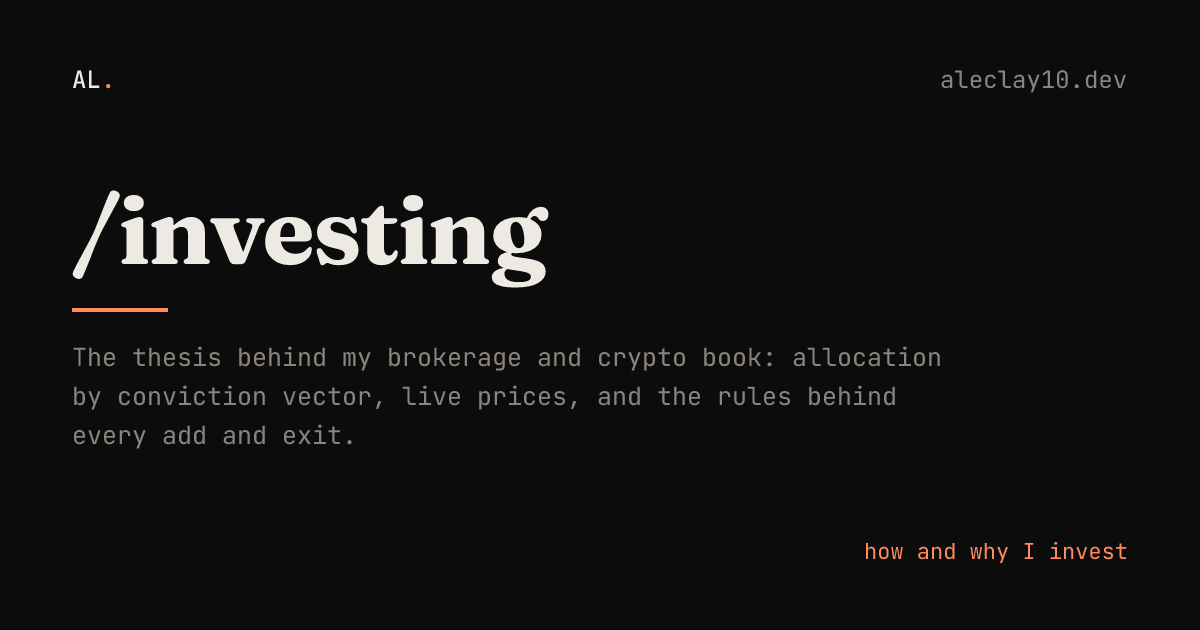
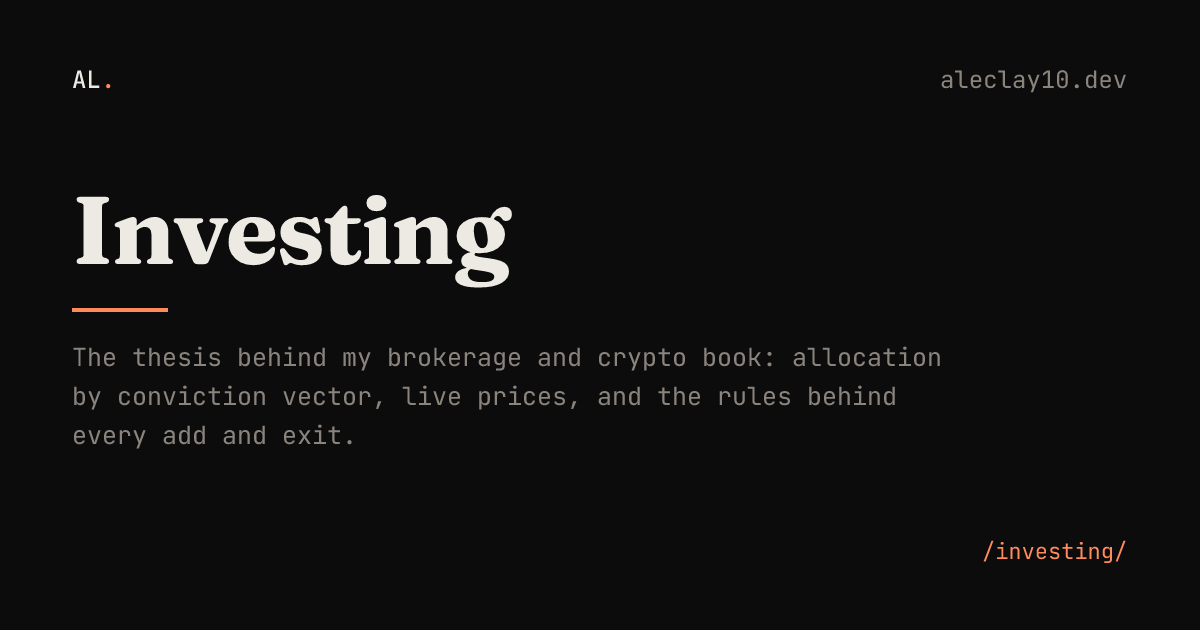
Medium items from the HIG review: nav names and current-page marker, footer contacts, richer Selected work, one title pattern
- Nav labels are names (Gaming Assistant, Investing, Stack, Now, Uses) rather
  than paths, and the current route carries aria-current="page", drawn in ink.
  The 404 link list follows.
- Footer gains GitHub, LinkedIn and Email beside Résumé, so every page offers
  a way to reach Alec.
- Selected work: every row links (the platform row now goes to /stack), each
  carries a mono spec line, and the 01/02/03 numbering is gone.
- Page titles use one pattern, <Name> · <lowercase descriptor>, with the name
  matching the nav label. Six OG cards regenerated by npm run og.
- CLAUDE.md records the title pattern.

Not in here: the /gaming-assistant hero mock still needs a real screenshot of
the app, which only Alec can supply.

Changed region(s): [[0.0617, 0.3016, 0.4625, 0.4825], [0.7092, 0.8444, 0.925, 0.9048]]

diff --git a/src/styles/global.css b/src/styles/global.css
@@ -133,6 +133,12 @@ header[data-vt-header] {
 .link:hover {
   color: var(--accent);
 }
+/* The page you are on, in both the desktop bar and the phone panel. Ink rather
+   than accent: the accent means "interactive", and the current page is the one
+   link that goes nowhere. */
+nav a[aria-current='page'] {
+  color: var(--ink);
+}
 
 /* Keyboard focus. The browser default is a blue ring, the only blue on a warm
    palette; this draws it in the accent instead, matching the search-arrival

diff --git a/CLAUDE.md b/CLAUDE.md
@@ -61,7 +61,7 @@ When adding structure, follow Astro conventions: shared markup → `src/layouts/
 - **Components:** `.astro` by default — static, zero JS. Only reach for a `client:*` directive (`client:load` / `client:idle` / `client:visible`) when a piece genuinely needs interactivity, and pick the laziest one that works.
 - **Content collections (Projects, blog):** when added, use the Content Layer API — define schemas in `src/content.config.ts` (not the legacy `src/content/config.ts`) with a `glob()` loader and Zod schemas (`z.coerce.date()` for frontmatter dates). Query via `getCollection()` / `getEntry()`. Match the existing config file's `z` import path if one already exists.
 - **Styling:** use Tailwind utilities and `@theme` tokens rather than raw hex values or one-off inline `<style>`. Keep class lists readable.
-- **No em dashes in visitor-facing copy.** Reword, or use a colon, a full stop, or a comma. Page titles use a middle dot as the separator (`'/stack · how this site works'`), and `build-og-images.mjs` parses that separator, so a title using ` — ` also breaks its OG card. This applies to anything that reaches the page: prose, labels, placeholders, `aria-label`s, tooltips, and UI strings in bundled scripts **and in the waitlist Worker's error responses**, which render in the form. **Source comments are exempt** — nothing they say reaches the page.
+- **No em dashes in visitor-facing copy.** Reword, or use a colon, a full stop, or a comma. Page titles use a middle dot as the separator and one pattern, `<Name> · <lowercase descriptor>` (`'Stack · how this site works'`), where the name is the nav label; `build-og-images.mjs` parses that separator, so a title using ` — ` also breaks its OG card. This applies to anything that reaches the page: prose, labels, placeholders, `aria-label`s, tooltips, and UI strings in bundled scripts **and in the waitlist Worker's error responses**, which render in the form. **Source comments are exempt** — nothing they say reaches the page.
 - **Self-host assets** (fonts included) rather than adding third-party `<link>` tags — it's better for the performance bar and the "fully self-hosted" goal.
 
 ## Search
